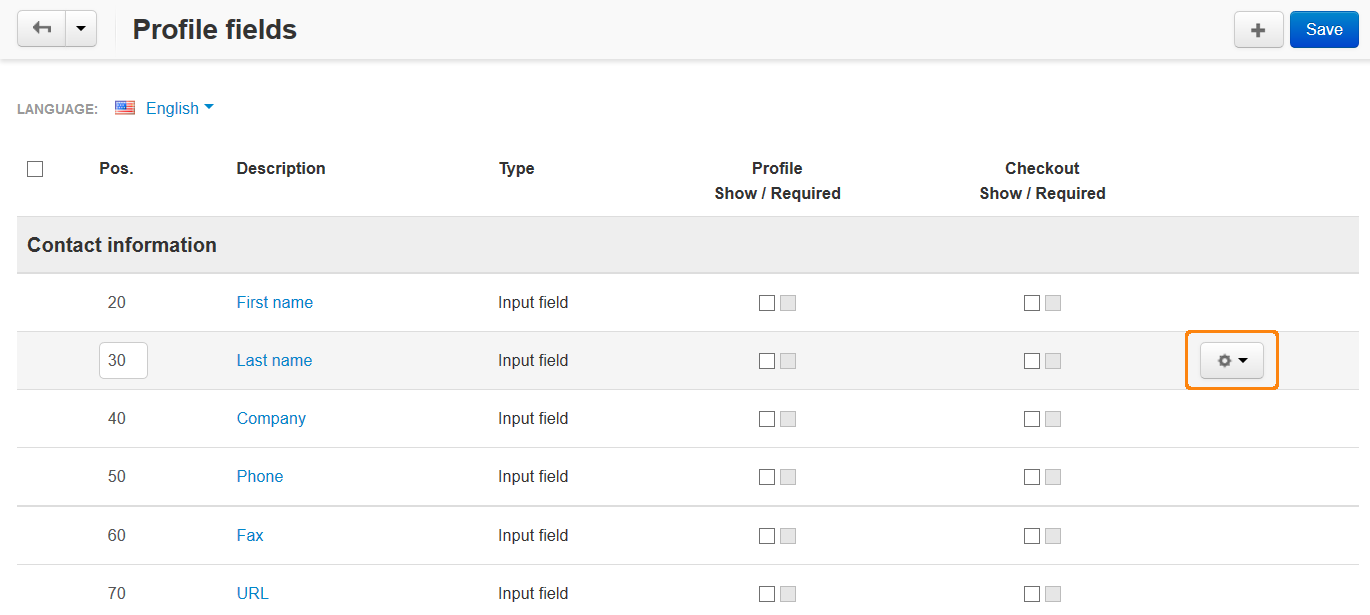
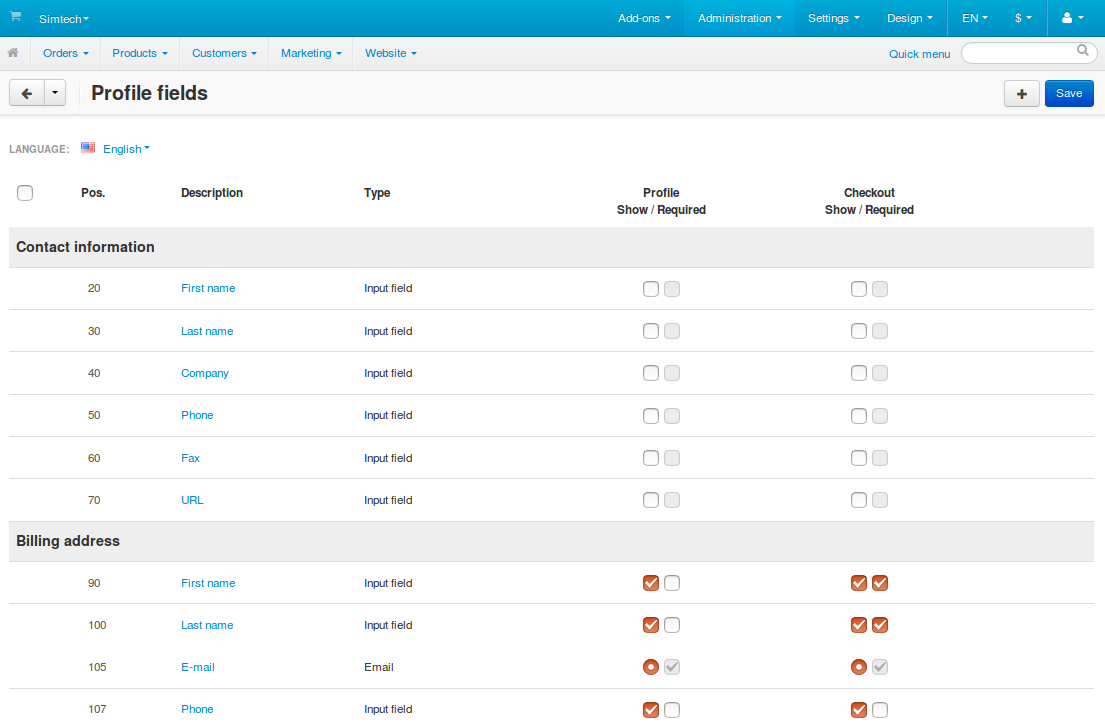
Users: Customers: Profile fields: Article updated.

diff --git a/user_guide/users/customers/change_profile_fields.rst b/user_guide/users/customers/change_profile_fields.rst
@@ -1,31 +1,105 @@
-***************************
-How To: Edit Profile Fields
-***************************
+*****************************
+How To: Manage Profile Fields
+*****************************
 
-To change any profile field, complete the following steps:
+Profile fields contain various information about a user. Users can fill in those fields when registering an account, in their profile, or at checkout. Some fields can be made mandatory.
 
-1. In the Administration panel go to **Administration → Profile fields**.
+The list of profile fields is available under **Administration → Profile fields**. On that page you can:
 
-2. Click the **gear** button next to the desired profile field and choose **Edit**.
+* Add, edit, hide, and delete profile fields.
+
+* Determine whether or not a field is required.
 
 .. image:: img/profile_fields.png
     :align: center
-    :alt: Select the profile dield you want to edit.
+    :alt: The list of profile fields in the administration panel.
 
-3. Make your changes.
+========================
+Add/Edit a Profile Field
+========================
 
-4. Click the **Save** button to save the changes.
+1. To add a profile field, click the **+** button in the top right corner. To edit an existing profile field, click the **gear** button next to the desired field and choose **Edit**.
 
-To add a new profile field, complete the following steps:
+.. image:: img/add_or_edit_field.png
+    :align: center
+    :alt: The buttons that allow you to add a new field or edit an existing one.
 
-1. Go to **Administration → Profile fields**.
+2. You'll see a window where you'll be able to specify the properties of the profile field:
 
-2. Click the **+** button on the right.
+   * **Description**—the name of the field as it appears to customers and administrators.
 
-3. Enter the information about the new profile field.
+   * **Position**—the position of this profile field on the list relative to other fields.
 
-4. Click the **Create** button.
+   * **Type**—the type of the profile field. It determines what kind of values can be entered or selected in the field. If you choose *Radio group* or *Multiple checkboxes*, you'll have to specify the possible variants on the **Variants** tab.
+
+     .. important::
+
+         Once you create a profile field, you won't be able to change the type of that field.
+
+   * **Section**—determines whether this field is a part of user's contact information or billing/shipping address. If you choose *Billing/Shipping address*, you'll be able to configure whether or not to show or require that field separately in the billing and shipping address forms. 
+
+   * **User-defined CSS class**—allows you to assign a custom CSS class to this field.
+
+   * **Profile (Show/Required)**—the first checkbox makes the field appear during profile creation or editing. The second checkbox makes this field required—the user won't be able to create or update the profile without filling in this field.
+
+   * **Checkout (Show/Required)**—the first checkbox makes the field appear at checkout. The second checkbox makes this field required—the user won't be able to complete checkout without filling in this field.
+
+3. Once you've specified everything you needed, click **Create** (or **Save**, if you're editing an existing field).
 
 .. image:: img/add_profile_field.png
     :align: center
-    :alt: Specify the properties fo the profile field.
+    :alt: Specify the properties of the profile field.
+
+=================================
+Hide Fields or Make Them Required
+=================================
+
+The product field list has two columns that determine the areas where a field should appear: **Profile** and **Checkout**. 
+
+Each area has two checkboxes:
+
+* **Show**—the field appears in that area. 
+
+  .. hint::
+
+      If you want to disable a certain field without deleting it entirely, just untick the **Show** checkboxes for both **Profile** and **Checkout**.
+
+* **Required**—the field must be filled in, or a user won't be able to proceed.
+
+  * For profile that means that the user won't be allowed to register a new account or save the edited one, if the required field is empty.
+
+  * For checkout that means that the user won't be able to submit an order if a required field is empty.
+
+Once you configure the visibility of the profile fields, click **Save** in the top right corner. Otherwise your changes will be lost when you leave the page.
+
+.. image:: img/shown_and_required_fields.png
+    :align: center
+    :alt: Tick the corresponding checkboxes to determine where the field should appear.
+
+=====================
+Delete Profile Fields
+=====================
+
+.. warning::
+
+    Deleting a profile field will also delete the data that users entered in that profile field earlier. If you don't want that, just hide the profile field as described above.
+
+Fields that exist by default can't be deleted. You can only delete custom profile fields:
+
+* To delete one profile field, hover over it, click the **gear** button, and choose **Delete**.
+
+* To delete multiple profile fields:
+
+  1. Tick the checkboxes next to the fields you want to delete.
+
+  2. Click the **gear** button in the top right corner.
+
+  3. Choose **Delete selected**.
+
+.. important::
+
+     If a profile field belongs to the *Billing/Shipipng address* section, then the checkboxes and the **Delete** action under the **gear** button will only appear for the **Shipping address** form. Deleting a field like that will remove it both from the **Billing address** and the **Shipping address** forms.
+
+.. image:: img/delete_profile_fields.png
+    :align: center
+    :alt: Deleting profile fields in CS-Cart.
